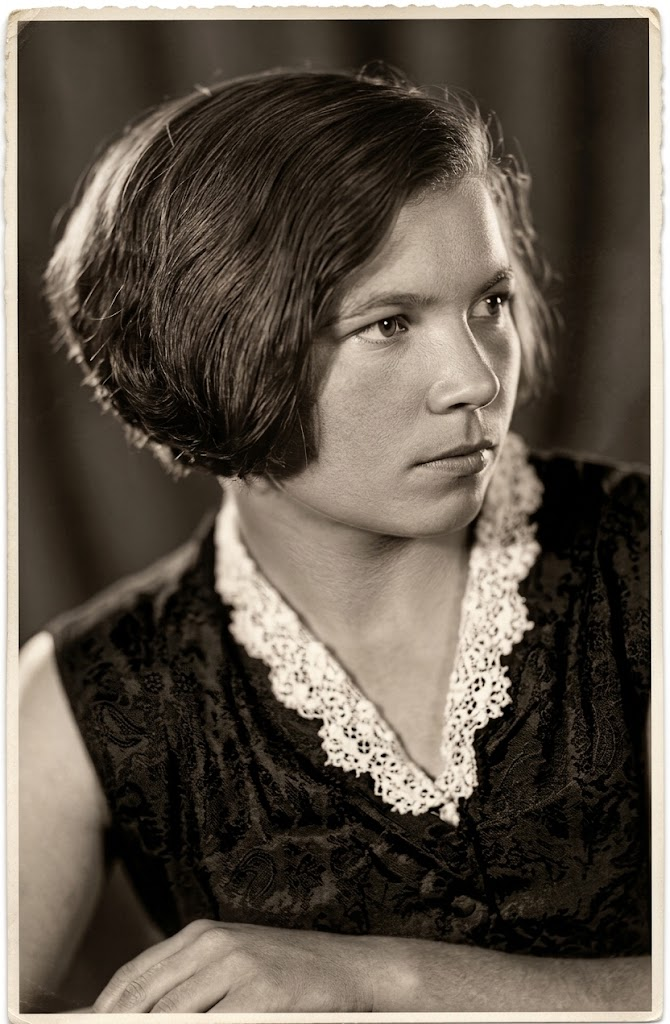
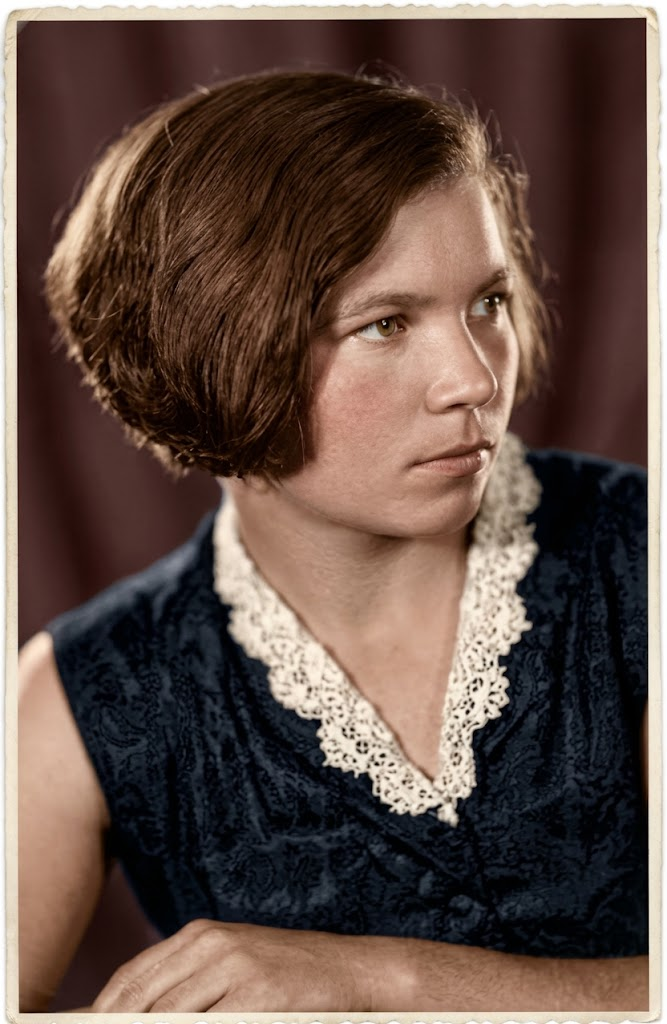
approve dokiia humenna; colorized portrait

diff --git a/src/content/people/uk/dokiia-humenna.md b/src/content/people/uk/dokiia-humenna.md
@@ -3,7 +3,7 @@ name: Докія Гуменна
 gender: female
 born: 1904-03-07
 died: 1996-04-04
-last_reviewed: 2026-10-24
+last_reviewed: 2026-10-26
 era: 20th-century
 group: literature
 tags: [writer]
@@ -19,6 +19,7 @@ image:
   src: ./images/dokiia-humenna.jpg
   alt: "Молода Докія Гуменна з короткою зачіскою, у темній сукні з мереживним комірцем"
   position: "50% 30%"
+  ai_edit: colorized
   author: "Невідомий автор"
   license: "Public domain (Ukraine)"
   source_url: "https://uk.wikipedia.org/wiki/%D0%A4%D0%B0%D0%B9%D0%BB:Dokia_Humenna.jpg"
@@ -44,7 +45,8 @@ sources:
   - title: "Укрінформ - До честі: увічнити в Києві ім'я Докії Гуменної"
     url: "https://www.ukrinform.ua/rubric-other_news/2205038-do-cesti-uvicniti-v-kievi-ima-dokii-gumennoi.html"
 related: [maksym-rylskyi, olena-teliha, yurii-shevelov, viktor-domontovych]
-status: draft
+status: approved
+published: 2026-10-26T21:20:03Z
 ---
 
 ## Письменниця з лопатою
